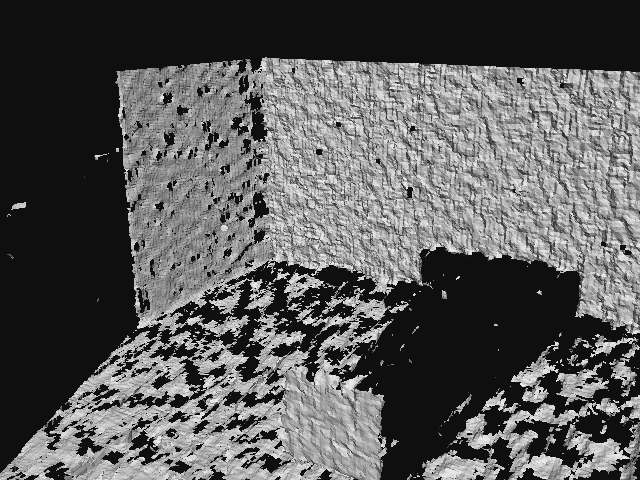
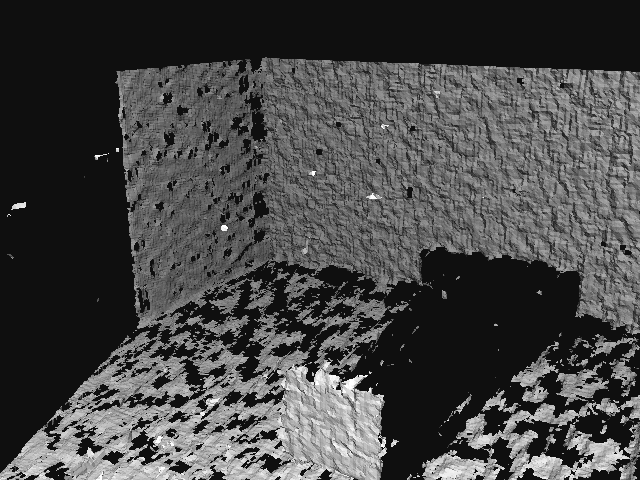
Room figure: add generating-model panel (distinct albedos), rectified panel, stage commentary
Six-panel figure now runs acquisition -> rectified -> disparity ->
change mask -> TRUE generating model -> reconstruction, truth and
reconstruction rendered by the same previewer from the same viewpoint;
per-plane albedos make the truth surfaces legible; depth-cue shading in
the previewer; full stage-by-stage reading added to the text. Figure on
its own page.

diff --git a/demo/roomsim.c b/demo/roomsim.c
@@ -11,7 +11,9 @@
  *
  * Run: make demo_room && ./demo_room     (~20 s)
  * Out: out_room_left.pgm   raw left view          (Preview opens PGM)
+ *      out_room_rect.pgm   rectified left view
  *      out_room_disp.pgm   disparity map
+ *      out_room_truth.pgm  shaded view of the TRUE generating model
  *      out_room_mesh.pgm   shaded view of the reconstructed mesh
  *      out_room_change.pgm change mask after the box moves
  *      out_room.ply        the room mesh itself */
@@ -168,7 +170,8 @@ static void write_norm_pgm(const char *path, const float *v, int w, int h,
 }
 
 /* ---- shaded software preview of a triangle soup ---------------------- */
-static void mesh_preview(const char *path, const double *tris, int ntri)
+static void mesh_preview(const char *path, const double *tris, int ntri,
+                         const double *alb)
 {
     mv_camera pc;
     static unsigned char img[W * H];
@@ -212,7 +215,8 @@ static void mesh_preview(const char *path, const double *tris, int ntri)
         mv_cross3(n, e1, e2);
         if (mv_normalize(n, 3) != MV_OK)
             continue;
-        shade = 45.0 + 190.0 * fabs(mv_dot(n, light, 3));
+        shade = (45.0 + 190.0 * fabs(mv_dot(n, light, 3)))
+              * (alb ? alb[k] : 1.0);
         za = pc.R[6] * a[0] + pc.R[7] * a[1] + pc.R[8] * a[2] + pc.t[2];
         zbv = pc.R[6] * b[0] + pc.R[7] * b[1] + pc.R[8] * b[2] + pc.t[2];
         zc2 = pc.R[6] * c[0] + pc.R[7] * c[1] + pc.R[8] * c[2] + pc.t[2];
@@ -240,8 +244,14 @@ static void mesh_preview(const char *path, const double *tris, int ntri)
                         continue;
                     z = l1 * za + l2 * zbv + l3 * zc2;
                     if (z > 0 && z < zb[y * W + x]) {
+                        double att = 3.0 / z; /* mild depth cue */
+                        double v2;
+                        if (att < 0.55) att = 0.55;
+                        if (att > 1.15) att = 1.15;
+                        v2 = shade * att;
                         zb[y * W + x] = (float)z;
-                        img[y * W + x] = (unsigned char)shade;
+                        img[y * W + x] =
+                            (unsigned char)(v2 > 255 ? 255 : v2);
                     }
                 }
         }
@@ -309,6 +319,8 @@ int main(void)
             mv_pgm_write("out_room_left.pgm", imgL, W, H);
         mv_warp_homography(rectL, W, H, imgL, W, H, H1, 0);
         mv_warp_homography(rectR, W, H, imgR, W, H, H2, 0);
+        if (f == 0)
+            mv_pgm_write("out_room_rect.pgm", rectL, W, H);
         mv_stereo_sad(disp, rectL, rectR, W, H, HWIN, DMIN, DMAX);
         texture_gate(disp, rectL);
         for (i = 0; i < W * H; i++)
@@ -341,6 +353,37 @@ int main(void)
         }
         printf("background coverage : %.1f%% of pixels\n",
                100.0 * nvalid_px / (W * H));
+    }
+
+    /* ---- shaded view of the TRUE generating model ------------------- */
+    {
+        double gt[8 * 2 * 9]; /* two triangles per plane */
+        double alb[16];
+        /* distinct albedos so a human can tell the surfaces apart:
+         * floor light, back wall mid, side wall dark, box brightest */
+        static const double PALB[6] = { 1.0, 0.72, 0.5, 1.45, 1.3, 1.15 };
+        int ngt = 0, p, j;
+        for (p = 0; p < npl; p++) {
+            const mv_plane *pl = &pls[p];
+            double c00[3], c10[3], c01[3], c11[3];
+            for (j = 0; j < 3; j++) {
+                c00[j] = pl->t[j];
+                c10[j] = pl->t[j] + pl->R[j * 3 + 0] * pl->tw * pl->pitch;
+                c01[j] = pl->t[j] + pl->R[j * 3 + 1] * pl->th * pl->pitch;
+                c11[j] = c10[j] + pl->R[j * 3 + 1] * pl->th * pl->pitch;
+            }
+            memcpy(gt + 9 * ngt + 0, c00, 24);
+            memcpy(gt + 9 * ngt + 3, c10, 24);
+            memcpy(gt + 9 * ngt + 6, c11, 24);
+            alb[ngt] = PALB[p];
+            ngt++;
+            memcpy(gt + 9 * ngt + 0, c00, 24);
+            memcpy(gt + 9 * ngt + 3, c11, 24);
+            memcpy(gt + 9 * ngt + 6, c01, 24);
+            alb[ngt] = PALB[p];
+            ngt++;
+        }
+        mesh_preview("out_room_truth.pgm", gt, ngt, alb);
     }
 
     /* ---- fuse background into TSDF, extract, preview, score -------- */
@@ -382,7 +425,7 @@ int main(void)
                "(%.1f%% of vertices scored)\n", ntri,
                1000.0 * sqrt(se / ns), 100.0 * ns / (3.0 * ntri));
         mv_tsdf_write_ply(&t, "out_room.ply");
-        mesh_preview("out_room_mesh.pgm", tris, ntri);
+        mesh_preview("out_room_mesh.pgm", tris, ntri, NULL);
         free(tris);
     }
     mv_tsdf_free(&t);

diff --git a/doc/multiview.tex b/doc/multiview.tex
@@ -1975,43 +1975,78 @@ change false alarms & $1.39\%$ of image \\
 \label{tab:roomresults}
 \end{table}
 
-\begin{figure}[ht]
+\begin{figure}[p]
 \centering
-\begin{minipage}[t]{0.48\textwidth}
+\begin{minipage}[t]{0.46\textwidth}
 \centering
 \includegraphics[width=\textwidth]{figs/room_left.png}\\[1pt]
 {\scriptsize (a) left camera view: speckle-textured floor, two walls,
 and the box; the dark band at top is the untextured void beyond the
 walls}
 \end{minipage}\hfill
-\begin{minipage}[t]{0.48\textwidth}
+\begin{minipage}[t]{0.46\textwidth}
+\centering
+\includegraphics[width=\textwidth]{figs/room_rect.png}\\[1pt]
+{\scriptsize (b) the same frame after rectification warping
+(\code{mv\_warp\_homography}): epipolar lines are now image rows, the
+precondition for 1D matching}
+\end{minipage}\\[3pt]
+\begin{minipage}[t]{0.46\textwidth}
 \centering
 \includegraphics[width=\textwidth]{figs/room_disp.png}\\[1pt]
-{\scriptsize (b) disparity: bright $=$ near (floor sweeping toward the
+{\scriptsize (c) disparity: bright $=$ near (floor sweeping toward the
 camera), dark $=$ far (back wall); black $=$ gated invalid --- the
 texture desert above the walls and occlusion fringes beside the box,
 exactly the failure modes \autoref{sec:stereo} predicts}
-\end{minipage}\\[6pt]
-\begin{minipage}[t]{0.48\textwidth}
-\centering
-\includegraphics[width=\textwidth]{figs/room_mesh.png}\\[1pt]
-{\scriptsize (c) the reconstructed mesh, shaded and rendered from a
-viewpoint no camera occupies: floor, both walls, the box, and its
-occlusion shadow behind it; holes are honestly-unobserved regions
-(texture-gated grazing floor, occlusions), granularity is the $15$\,mm
-voxel grid}
 \end{minipage}\hfill
-\begin{minipage}[t]{0.48\textwidth}
+\begin{minipage}[t]{0.46\textwidth}
 \centering
 \includegraphics[width=\textwidth]{figs/room_change.png}\\[1pt]
 {\scriptsize (d) change mask after the box moves: two blobs --- the
 box's \emph{old} footprint (background now visible) and its \emph{new}
 position; isolated flicker removed by a $3\times3$ majority filter}
+\end{minipage}\\[3pt]
+\begin{minipage}[t]{0.46\textwidth}
+\centering
+\includegraphics[width=\textwidth]{figs/room_truth.png}\\[1pt]
+{\scriptsize (e) the \emph{generating model}: the true scene geometry
+rendered by the same previewer from the same viewpoint; surfaces carry
+distinct albedos (bright box, mid floor, dark walls) so the shapes read
+clearly}
+\end{minipage}\hfill
+\begin{minipage}[t]{0.46\textwidth}
+\centering
+\includegraphics[width=\textwidth]{figs/room_mesh.png}\\[1pt]
+{\scriptsize (f) the \emph{reconstruction}, same viewpoint as (e):
+floor, both walls, the box, and its occlusion shadow behind it; holes
+are honestly-unobserved regions (texture-gated grazing floor,
+occlusions); granularity is the $15$\,mm voxel grid}
 \end{minipage}
-\caption{Dense-pipeline outputs of the room experiment (images
-generated by \code{demo\_room}, converted from its PGM outputs).}
+\caption{Dense-pipeline stages of the room experiment, ending in the
+truth-vs-reconstruction pair (e)/(f) --- generated by
+\code{demo\_room}, converted from its PGM outputs.}
 \label{fig:room}
 \end{figure}
+
+Reading the imagery, stage by stage: panel (a) is an
+\emph{acquisition} --- one of the eighteen frames (nine per camera)
+that are the experiment's only input; every later panel is derived from
+such frames alone. Panel (b) shows the one-time rectification warp
+doing its job: after it, corresponding points share image rows, and
+matching collapses to the 1D search of \autoref{sec:stereo}. In (c)
+the disparity gradient reads as depth to the eye --- floor bright and
+sweeping nearer, back wall uniformly dark, the box standing out of its
+surroundings --- while the black regions are the validity gate
+declining to guess: the untextured void, and the occlusion fringe
+beside the box where the left camera sees background the right camera
+cannot. The truth/reconstruction pair (e)/(f) is rendered by the same
+software previewer from the same viewpoint --- a viewpoint \emph{no
+physical camera occupies}, which is the point of having a model at all;
+comparing them shows what survives (both walls, floor, the box as a
+volume) and what does not (the box's occlusion shadow, the gated
+grazing-floor holes). The change mask (d) is the background model
+earning its keep: one new frame against the median background, and the
+box's departure and arrival are both localized.
 
 Reading the numbers: the $28.6$\,mm mesh RMS is dominated by the
 grazing-incidence floor (slanted-surface bias of fronto-parallel SAD
